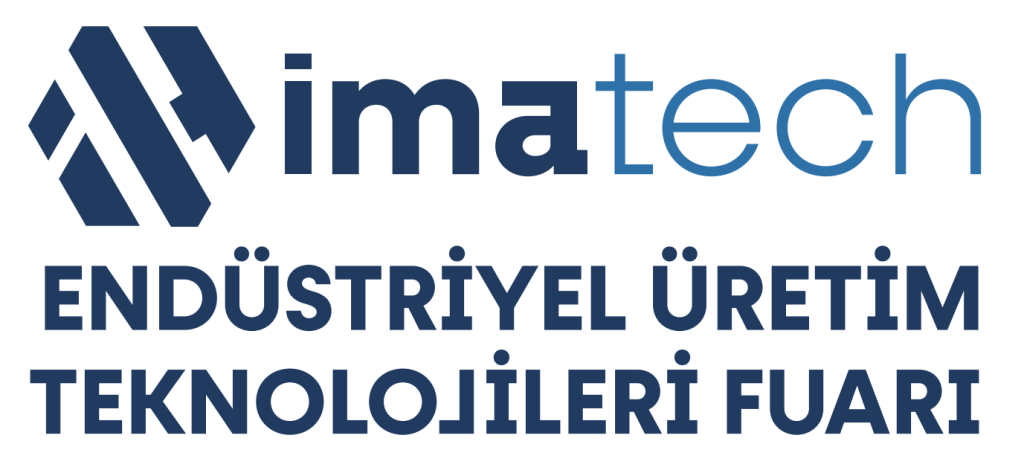
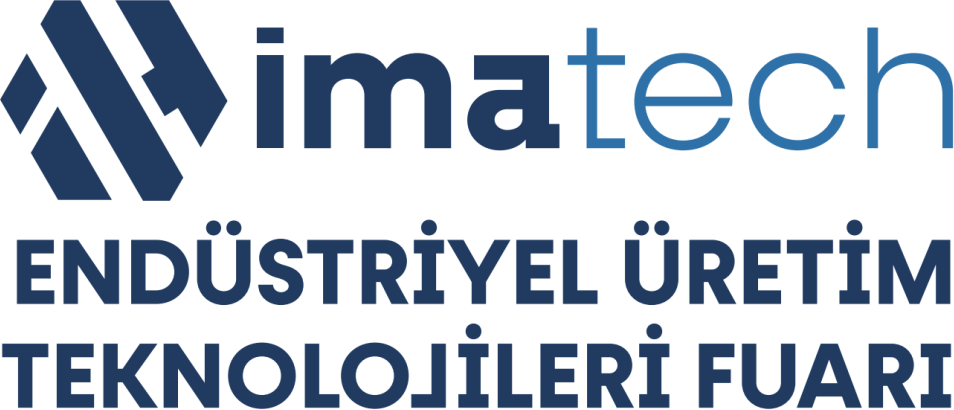
Etkinlik logolari buyutuldu ve ayni olcuye getirildi
Detay sayfasinda logolar serbest boyuttaydi (max-h-20 max-w-240).
Logolarin en-boy oranlari 1.23 ile 2.15 arasinda degistigi icin her biri
baska buyuklukte goruniyordu.

- Logo artik sabit olculu (300x128) beyaz bir kutuya ortalaniyor. Hepsi
  ayni alani kapliyor ve oncekinden yaklasik %40 daha buyuk.

- Asil sorun dosyalarin icindeydi: logonun etrafinda kocaman bos alan
  vardi. WIN Eurasia dosyasinin %86'si, Big 5'in %71'i, Konya'nin %66'si
  bostu. Ayni kutuya konsalar bile logolar farkli buyuklukte goruntuleniyordu.
  scripts/trim-event-logos.mjs ile bu bos kenarlar kesildi; 12 dosya
  guncellendi, toplam boyut da 100 KB'nin uzerinde dustu.
  Yeni logo yuklendiginde betik tekrar calistirilmali (README'ye yazildi).

win-eurasia dosyalarinin webp'si neden yok: PNG'leri 2.9 KB. WebP'ye
cevirince 5.0 KB oluyor, yani buyuyor. optimize-images.mjs 40 KB altindaki
dosyalari bu yuzden atliyor.

Claude-Session: https://claude.ai/code/session_01A85LCcgzYbBzSA5jNmmQJM

diff --git a/apps/zenweld-web/src/components/events/EventDetail.tsx b/apps/zenweld-web/src/components/events/EventDetail.tsx
@@ -43,13 +43,19 @@ export function EventDetail({ slug }: { slug: string }) {
               </h1>
               <p className="mt-3 text-zw-grey-600">{text(event.summary)}</p>
             </div>
-            <ProductImage
-              src={event.logoUrl}
-              alternates={logoAlternates(event.logoUrl)}
-              alt={event.title}
-              label={event.title}
-              className="max-h-20 max-w-[240px] object-contain"
-            />
+            {/* Logolarin en-boy oranlari cok farkli (1.23 ile 2.15 arasi).
+                Serbest birakilinca her biri baska boyda gorunuyordu. Sabit
+                olculu beyaz bir kutuya ortalaniyor: hepsi ayni alani kaplar
+                ve oncekinden belirgin sekilde buyuk. */}
+            <div className="flex h-32 w-[300px] shrink-0 items-center justify-center rounded-[4px] border border-zw-grey-200 bg-white p-4">
+              <ProductImage
+                src={event.logoUrl}
+                alternates={logoAlternates(event.logoUrl)}
+                alt={event.title}
+                label={event.title}
+                className="max-h-full max-w-full object-contain"
+              />
+            </div>
           </div>
         </div>
       </div>

diff --git a/apps/zenweld-web/public/images/events/README.md b/apps/zenweld-web/public/images/events/README.md
@@ -43,3 +43,16 @@ public/images/events/big-5-global-2025/1.jpg
 Yükledikten sonra haber verin, kalan bağlantı işini ben yaparım. (Dilerseniz
 yönetim panelinden de ekleyebilirsiniz: Etkinlikler → Düzenle → Logo &
 Fotoğraflar. Ancak panelden eklenenler yalnızca sizin tarayıcınızda görünür.)
+
+## Yeni logo yükledikten sonra
+
+Proje kökünde şunu çalıştırın:
+
+```
+node scripts/trim-event-logos.mjs
+```
+
+Logo dosyalarının çoğunda asıl logonun etrafında geniş boş alan oluyor
+(bazılarında dosyanın %80'inden fazlası). Detay sayfasında hepsi aynı
+ölçülü kutuya konduğu için, bu boşluk bazı logoların küçük görünmesine
+yol açıyor. Betik bu boş kenarları kesiyor, logo kutuyu dolduruyor.
